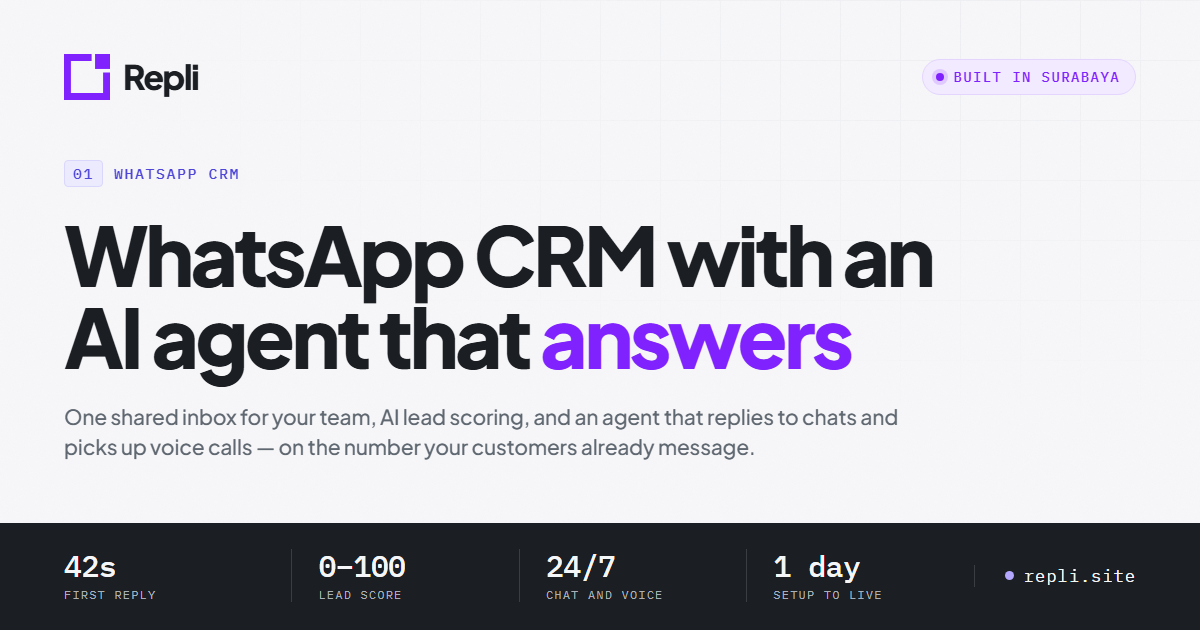
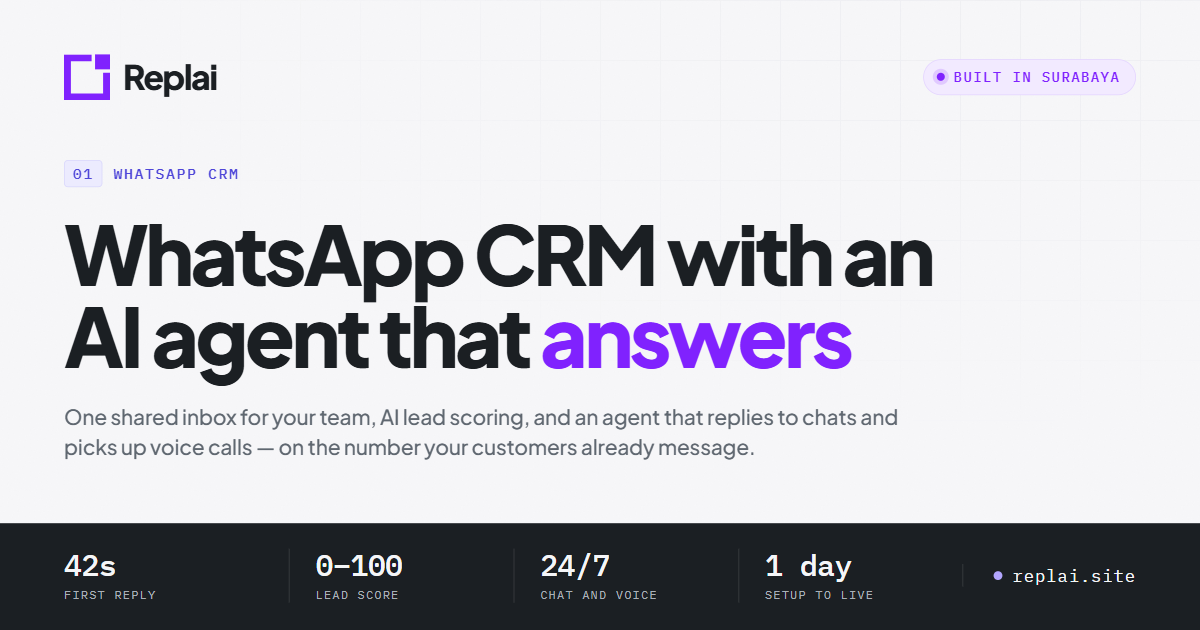
fix: rename brand to Replai and domain to replai.site
The earlier rebrand used "Repli" and repli.site by mistake. Every
occurrence in copy, metadata, schema, emails, robots/sitemap, the
favicon label, docs and the OG card now reads Replai / replai.site, and
og.png is re-rendered.

The GitHub repo and the Cloudflare Worker keep the repli-landing slug.

diff --git a/src/lib/features.ts b/src/lib/features.ts
@@ -36,7 +36,7 @@ export const features: Feature[] = [
     kicker: "Shared inbox",
     summary: "Route every chat to one owner, keep the history when staff leave.",
     lead:
-      "Deals are lost in the handover, not the pitch. Repli puts your business number into a shared inbox with real assignment, internal notes, and a conversation history that outlives whoever was holding the phone.",
+      "Deals are lost in the handover, not the pitch. Replai puts your business number into a shared inbox with real assignment, internal notes, and a conversation history that outlives whoever was holding the phone.",
     points: [
       {
         icon: "users",
@@ -46,7 +46,7 @@ export const features: Feature[] = [
       {
         icon: "doc",
         title: "Internal notes the customer never sees",
-        text: "Leave the context that matters: budget, objections, the discount someone already promised. Notes live in Repli, never in the WhatsApp thread.",
+        text: "Leave the context that matters: budget, objections, the discount someone already promised. Notes live in Replai, never in the WhatsApp thread.",
       },
       {
         icon: "bell",
@@ -73,7 +73,7 @@ export const features: Feature[] = [
       heading: "Built for the way small teams actually sell",
       body: [
         "Most WhatsApp teams start with one phone on a desk and end up with five phones, five chat histories, and no idea which customer was promised what. The usual fix — a spreadsheet and a group chat — collapses the moment volume doubles.",
-        "The shared inbox is deliberately boring: assignment, ownership, notes, search. It is the part of Repli your team touches a hundred times a day, so it loads fast, works on a mid-range Android, and keeps its keyboard shortcuts consistent.",
+        "The shared inbox is deliberately boring: assignment, ownership, notes, search. It is the part of Replai your team touches a hundred times a day, so it loads fast, works on a mid-range Android, and keeps its keyboard shortcuts consistent.",
       ],
       checks: [
         "Assignment, reassignment and unassigned queue",
@@ -124,14 +124,14 @@ export const features: Feature[] = [
       { label: "Retrain cadence", value: "Weekly", note: "on your own outcomes" },
     ],
     how: [
-      { title: "Import what you know", text: "Point Repli at your past won and lost deals, or start cold and let the first weeks calibrate it." },
+      { title: "Import what you know", text: "Point Replai at your past won and lost deals, or start cold and let the first weeks calibrate it." },
       { title: "Set your thresholds", text: "Define what hot, warm and cold mean for your business. Two numbers, changeable any time." },
       { title: "Let it sort the queue", text: "The inbox re-orders itself by score, so the first chat your closer opens is the one worth opening." },
     ],
     deeper: {
       heading: "A score you can argue with",
       body: [
-        "Opaque scores get ignored. Every Repli score exposes its top contributing signals in plain language — \"asked for bulk pricing\", \"replied within 40 seconds twice\", \"mentioned a competitor by name\" — so a sales lead can sanity-check the model instead of trusting it blindly.",
+        "Opaque scores get ignored. Every Replai score exposes its top contributing signals in plain language — \"asked for bulk pricing\", \"replied within 40 seconds twice\", \"mentioned a competitor by name\" — so a sales lead can sanity-check the model instead of trusting it blindly.",
         "When an agent overrides a score, we keep both the model's answer and the human's. Those disagreements are the most valuable training data you own.",
       ],
       checks: [
@@ -183,7 +183,7 @@ export const features: Feature[] = [
       { label: "Resolved by AI", value: "62%", note: "no human, median across pilots" },
     ],
     how: [
-      { title: "Feed the knowledge base", text: "Drop in files or a website URL. Repli indexes it and shows you exactly what it learned." },
+      { title: "Feed the knowledge base", text: "Drop in files or a website URL. Replai indexes it and shows you exactly what it learned." },
       { title: "Set the rules of engagement", text: "Tone, languages, working hours, and the topics that must always reach a person." },
       { title: "Run it in shadow mode", text: "It drafts, your agents send. When you trust the drafts, flip it live — per pipeline, not all at once." },
     ],
@@ -249,7 +249,7 @@ export const features: Feature[] = [
     deeper: {
       heading: "Automation your customers do not resent",
       body: [
-        "Bad automation is obvious: the same message at the same interval to everyone, including the person who already replied. Repli kills a sequence the moment a human answers, and refuses to send twice in one day to the same contact by default.",
+        "Bad automation is obvious: the same message at the same interval to everyone, including the person who already replied. Replai kills a sequence the moment a human answers, and refuses to send twice in one day to the same contact by default.",
         "Frequency caps, quiet hours, and an opt-out that actually sticks are built in rather than bolted on. You can raise the caps — you have to do it deliberately.",
       ],
       checks: [
@@ -308,7 +308,7 @@ export const features: Feature[] = [
     deeper: {
       heading: "Reports that survive a Monday meeting",
       body: [
-        "Most CRM dashboards fail for one reason: they depend on humans logging activity. Repli derives its numbers from the message stream, so the report and the reality cannot drift apart.",
+        "Most CRM dashboards fail for one reason: they depend on humans logging activity. Replai derives its numbers from the message stream, so the report and the reality cannot drift apart.",
         "Where a number is estimated rather than measured — attributed revenue, for instance — we label it as an estimate and show the assumption behind it.",
       ],
       checks: [

diff --git a/src/lib/content.ts b/src/lib/content.ts
@@ -79,7 +79,7 @@ export const outcomes: { icon: IconName; title: string; text: string }[] = [
 
    ⚠  BRAND CONSENT REQUIRED BEFORE THIS GOES LIVE
    Every company named below is a real, well-known Indonesian brand. Listing
-   them as Repli customers — and attaching quotes and figures to them — needs
+   them as Replai customers — and attaching quotes and figures to them — needs
    written sign-off from each brand, plus their own brand kit for any logo file.
    Without that sign-off these are false endorsements and trademark use we have
    no licence for. Checklist and status: /BRAND-CONSENT.md in the repo root.
@@ -182,7 +182,7 @@ export const testimonials: Testimonial[] = [
    true before launch — if a name, photo or figure is not cleared, the entry comes
    out rather than the line being softened. */
 export const testimonialDisclosure =
-  "Every name, photograph, quote and figure here is published with the permission of the person and the company named. Figures are their own reported numbers over their first 90 days on Repli.";
+  "Every name, photograph, quote and figure here is published with the permission of the person and the company named. Figures are their own reported numbers over their first 90 days on Replai.";
 
 export type CustomerBrand = {
   name: string;
@@ -234,7 +234,7 @@ export type BusinessPartner = {
 
 /** ⚠  Same consent problem as the customer brands, plus one specific to Meta:
     "Meta Business Partner" is a badge programme with its own rules, and the
-    badge asset is not the corporate Meta logo. Until Repli is an approved
+    badge asset is not the corporate Meta logo. Until Replai is an approved
     partner with the badge file in hand, this row is a claim we cannot make.
     See BRAND-CONSENT.md. */
 export const businessPartners: BusinessPartner[] = [
@@ -276,7 +276,7 @@ export const faqGroups: FaqGroup[] = [
     items: [
       {
         q: "Why can't I just sign up with a credit card?",
-        a: "Because connecting a WhatsApp number wrong is painful to undo. Every Repli account starts with a 30-minute call where we verify your number, set up your pipelines, and configure your first automations with you. It costs you half an hour and saves a week of confusion.",
+        a: "Because connecting a WhatsApp number wrong is painful to undo. Every Replai account starts with a 30-minute call where we verify your number, set up your pipelines, and configure your first automations with you. It costs you half an hour and saves a week of confusion.",
       },
       {
         q: "How long does setup take?",
@@ -288,7 +288,7 @@ export const faqGroups: FaqGroup[] = [
       },
       {
         q: "Can I keep using WhatsApp on my phone?",
-        a: "Yes. Your team can work from the Repli web app, and the number continues to behave like a normal business number to your customers. What changes is that the history, assignment and notes live somewhere durable.",
+        a: "Yes. Your team can work from the Replai web app, and the number continues to behave like a normal business number to your customers. What changes is that the history, assignment and notes live somewhere durable.",
       },
     ],
   },

diff --git a/src/lib/platform.ts b/src/lib/platform.ts
@@ -123,7 +123,7 @@ export const securityGroups: SecurityGroup[] = [
 
 export const securityHonesty = {
   heading: "What we do not claim yet",
-  body: "We are a pre-seed company and will not pretend otherwise. Repli is not SOC 2 or ISO 27001 certified today — an SOC 2 Type I readiness assessment is scheduled, and we will publish the report when we have it rather than before. If your procurement process requires a certificate we do not hold, tell us early and we will tell you honestly whether we can meet the deadline.",
+  body: "We are a pre-seed company and will not pretend otherwise. Replai is not SOC 2 or ISO 27001 certified today — an SOC 2 Type I readiness assessment is scheduled, and we will publish the report when we have it rather than before. If your procurement process requires a certificate we do not hold, tell us early and we will tell you honestly whether we can meet the deadline.",
   contact: "Security questions, DPAs and questionnaires go straight to a founder.",
 };
 
@@ -132,7 +132,7 @@ export const securityHonesty = {
    -------------------------------------------------------------------------- */
 
 export const companyStory: string[] = [
-  "Repli started because of a spreadsheet. A friend running a printing business in Bandung was tracking sixty active quotes in one sheet, cross-referencing them against four phones, and losing roughly one deal a week to a message nobody answered.",
+  "Replai started because of a spreadsheet. A friend running a printing business in Bandung was tracking sixty active quotes in one sheet, cross-referencing them against four phones, and losing roughly one deal a week to a message nobody answered.",
   "Every CRM we looked at for them assumed the deal starts with an email and a form. Theirs started — and finished — inside WhatsApp. The tools that did handle WhatsApp treated it as a broadcast channel for marketing blasts, which is close to the opposite of what a sales team needs.",
   "So we built the thing that was missing: a CRM where the WhatsApp conversation is the record, not an attachment to it. Then we put an AI agent inside it, because a five-person team cannot answer messages at 11pm and should not have to.",
 ];
@@ -141,7 +141,7 @@ export const principles: { icon: IconName; title: string; text: string }[] = [
   {
     icon: "phone",
     title: "Sell on a call, not through a funnel",
-    text: "Every account starts with a conversation, and we will tell you when Repli is the wrong fit. It costs us signups and saves everyone a bad quarter.",
+    text: "Every account starts with a conversation, and we will tell you when Replai is the wrong fit. It costs us signups and saves everyone a bad quarter.",
   },
   {
     icon: "eye",

diff --git a/src/lib/site.ts b/src/lib/site.ts
@@ -8,23 +8,23 @@ import { industries } from "./solutions";
 import { teams, useCases } from "./audiences";
 
 export const site = {
-  name: "Repli",
+  name: "Replai",
   /* The contracting entity. Used in the footer, the legal pages and the
-     Organization node — Repli is the product, this is who signs. */
+     Organization node — Replai is the product, this is who signs. */
   legalName: "PT Nusa Inti Telekomunikasi",
-  url: "https://repli.site",
+  url: "https://replai.site",
   tagline: "The WhatsApp CRM with an AI agent that answers",
   description:
-    "Repli turns WhatsApp into a real sales system: one shared inbox for your team, AI lead scoring, no-code follow-up automation, and an AI agent that replies to chats and answers voice calls.",
+    "Replai turns WhatsApp into a real sales system: one shared inbox for your team, AI lead scoring, no-code follow-up automation, and an AI agent that replies to chats and answers voice calls.",
   founded: 2025,
   stage: "Pre-seed",
 } as const;
 
 export const contact = {
-  salesEmail: "sales@repli.site",
-  supportEmail: "support@repli.site",
-  pressEmail: "press@repli.site",
-  privacyEmail: "privacy@repli.site",
+  salesEmail: "sales@replai.site",
+  supportEmail: "support@replai.site",
+  pressEmail: "press@replai.site",
+  privacyEmail: "privacy@replai.site",
   /* Registered office, split one line per line of the printed address. The
      address the company gave us, in English: street and area names stay as
      written, administrative terms are translated. `officeShort` is the one-line
@@ -181,7 +181,7 @@ export const nav: NavItem[] = [
         {
           heading: "Company",
           links: [
-            { label: "About Repli", href: "/about", summary: "Why we build for WhatsApp-first teams", icon: "users" },
+            { label: "About Replai", href: "/about", summary: "Why we build for WhatsApp-first teams", icon: "users" },
             { label: "Contact us", href: "/contact", summary: "Talk to sales, or ask for pricing", icon: "mail" },
           ],
         },
@@ -249,5 +249,5 @@ export const footerGroups: { heading: string; links: { label: string; href: stri
 export const cta = {
   primary: { label: "Contact us", href: "/contact" },
   secondary: { label: "See the product tour", href: "/product" },
-  note: "Repli is invite-only and quoted per team, so there is no signup form and no public price list. Both start with the same call.",
+  note: "Replai is invite-only and quoted per team, so there is no signup form and no public price list. Both start with the same call.",
 } as const;

diff --git a/scripts/og-card.html b/scripts/og-card.html
@@ -12,7 +12,7 @@
 <html lang="en">
   <head>
     <meta charset="utf-8" />
-    <title>Repli — OG card source</title>
+    <title>Replai — OG card source</title>
     <link rel="preconnect" href="https://fonts.googleapis.com" />
     <link rel="preconnect" href="https://fonts.gstatic.com" crossorigin />
     <link
@@ -266,7 +266,7 @@
               <rect x="27" width="13" height="13" />
             </g>
           </svg>
-          <b>Repli</b>
+          <b>Replai</b>
         </div>
 
         <p class="pill"><span class="dot"></span>Built in Surabaya</p>
@@ -286,7 +286,7 @@
         <div class="cell"><b>0&ndash;100</b><i>Lead score</i></div>
         <div class="cell"><b>24/7</b><i>Chat and voice</i></div>
         <div class="cell"><b>1 day</b><i>Setup to live</i></div>
-        <p class="domain"><span></span>repli.site</p>
+        <p class="domain"><span></span>replai.site</p>
       </footer>
     </div>
   </body>

diff --git a/src/lib/solutions.ts b/src/lib/solutions.ts
@@ -322,7 +322,7 @@ export const industries: Industry[] = [
       "Renewals that lapse because nobody was reminded",
     ],
     plays: [
-      { title: "Every conversation on a company number", text: "Agents work inside Repli, so the transcript, the attachments and the assignment history survive the agent leaving." },
+      { title: "Every conversation on a company number", text: "Agents work inside Replai, so the transcript, the attachments and the assignment history survive the agent leaving." },
       { title: "Document intake with a checklist", text: "KTP, payslip, existing policy — requested, tracked and chased once a day until the set is complete, then locked to the record." },
       { title: "Renewal and premium reminders", text: "Fire on the policy date inside quiet hours and frequency caps, and stop the moment payment clears." },
     ],

diff --git a/src/styles/tokens.css b/src/styles/tokens.css
@@ -1,5 +1,5 @@
 /* ==========================================================================
-   Repli design tokens — "Field Manual"
+   Replai design tokens — "Field Manual"
    Cool white stock, graphite ink, violet action, indigo second voice.
    The anchors are sampled straight from the brand artwork: the mark is
    #8022FE, the banner gradient runs #7741ED → #6560F0 → #7C6BED, and the

diff --git a/src/lib/audiences.ts b/src/lib/audiences.ts
@@ -227,7 +227,7 @@ export type Size = {
   name: string;
   who: string;
   fit: string[];
-  /** The plan band this size lands in. No figure: Repli is invite-only and
+  /** The plan band this size lands in. No figure: Replai is invite-only and
       quoted per team, so every one of these leads to a conversation. */
   plan: { label: string; href: string };
 };

diff --git a/src/lib/schema.ts b/src/lib/schema.ts
@@ -52,7 +52,7 @@ export const websiteNode: Node = {
 };
 
 /**
- * The product itself. No `offers` node: Repli is quoted per team and there is
+ * The product itself. No `offers` node: Replai is quoted per team and there is
  * no public price list, and a price-free Offer is worse than none at all.
  */
 export const softwareNode: Node = {

diff --git a/README.md b/README.md
@@ -1,6 +1,6 @@
-# Repli — marketing site
+# Replai — marketing site
 
-Static marketing site for Repli, a WhatsApp CRM with an AI agent. Astro 5, no
+Static marketing site for Replai, a WhatsApp CRM with an AI agent. Astro 5, no
 UI framework, no client-side router. 30 routes, zero external JavaScript bundles —
 the only scripts are small inline islands (header drawer, reveal-on-scroll, the
 login form).
@@ -9,7 +9,7 @@ Design direction, palette and type decisions are recorded in
 [`LANDING-PAGE-BRIEF.md`](LANDING-PAGE-BRIEF.md).
 
 > [!WARNING]
-> **Do not point `repli.site` at this build yet.** The site names real
+> **Do not point `replai.site` at this build yet.** The site names real
 > Indonesian companies as customers and shows named people with their
 > photographs. None of it is cleared. Read
 > [`BRAND-CONSENT.md`](BRAND-CONSENT.md) first — it lists exactly what has to be
@@ -52,7 +52,7 @@ needs a secret, so there is nothing to configure in a host's env panel.
 
 ## Before a real domain
 
-`astro.config.mjs` sets `site: 'https://repli.site'`. That value builds the
+`astro.config.mjs` sets `site: 'https://replai.site'`. That value builds the
 canonical tags and the sitemap. **If you deploy to a different hostname, change
 it**, or every page will advertise a canonical URL that is not where it lives.
 Preview deployments are fine to leave alone — they are `noindex` by convention on
@@ -74,7 +74,7 @@ Vercel deploys a static Astro site with zero configuration and no adapter.
    - Install Command: `npm ci`
 3. Leave Environment Variables empty. This site has none.
 4. **Deploy.** First build is roughly a minute.
-5. **Project → Settings → Domains** to add `repli.site`. Vercel prints the DNS
+5. **Project → Settings → Domains** to add `replai.site`. Vercel prints the DNS
    records to create at your registrar (an `A` record for the apex, `CNAME` for
    `www`).
 
@@ -114,7 +114,7 @@ from a Git repo.
    lag behind: `NODE_VERSION` = `22`. (`.nvmrc` in the repo says the same thing;
    the variable is the one that is unambiguous.)
 4. **Save and Deploy.**
-5. **Custom domains** tab → add `repli.site`. If the domain's DNS is already on
+5. **Custom domains** tab → add `replai.site`. If the domain's DNS is already on
    Cloudflare, the records are created for you.
 
 Pages serves `404.html` for unmatched paths automatically, and resolves

diff --git a/LANDING-PAGE-BRIEF.md b/LANDING-PAGE-BRIEF.md
@@ -1,18 +1,18 @@
-# Landing Page Brief — Repli
+# Landing Page Brief — Replai
 
 ## Tentang Produk
 
-Repli adalah B2B SaaS WhatsApp CRM yang menargetkan SMB (small-medium business) di Indonesia dan ASEAN. Produk ini menggabungkan AI lead scoring, sinkronisasi multi-user WhatsApp, otomasi workflow no-code, dan analitik penjualan — semua dalam satu platform berbasis WhatsApp Business API.
+Replai adalah B2B SaaS WhatsApp CRM yang menargetkan SMB (small-medium business) di Indonesia dan ASEAN. Produk ini menggabungkan AI lead scoring, sinkronisasi multi-user WhatsApp, otomasi workflow no-code, dan analitik penjualan — semua dalam satu platform berbasis WhatsApp Business API.
 
 **Tahap:** Pre-seed
 **Target pasar:** SMB Indonesia & ASEAN (owner bisnis, tim sales kecil-menengah)
-**Domain:** repli.site
+**Domain:** replai.site
 
 ---
 
 ## Tujuan Landing Page
 
-1. Menjelaskan value proposition Repli secara singkat dan jelas dalam 5 detik pertama
+1. Menjelaskan value proposition Replai secara singkat dan jelas dalam 5 detik pertama
 2. Mendorong konversi ke sign-up / demo request / WhatsApp trial
 3. Membangun kepercayaan (trust) untuk produk pre-seed yang belum punya brand awareness besar
 4. Berfungsi optimal di mobile (target audiens banyak mengakses lewat HP)
@@ -24,7 +24,7 @@ Repli adalah B2B SaaS WhatsApp CRM yang menargetkan SMB (small-medium business) 
 ### 1. Hero Section
 
 - **Headline:** Fokus pada outcome bisnis, bukan fitur teknis. Contoh arah: "Ubah Chat WhatsApp Jadi Mesin Penjualan Otomatis"
-- **Subheadline:** Jelaskan singkat bahwa Repli = CRM + AI + WhatsApp dalam satu platform
+- **Subheadline:** Jelaskan singkat bahwa Replai = CRM + AI + WhatsApp dalam satu platform
 - **CTA utama:** "Coba Gratis" / "Request Demo" (tombol besar, warna kontras)
 - **CTA sekunder:** "Lihat Cara Kerja" (scroll ke demo/video)
 - **Visual:** Mockup interface WhatsApp + dashboard CRM berdampingan, atau video singkat (15-30 detik)

diff --git a/BRAND-CONSENT.md b/BRAND-CONSENT.md
@@ -1,9 +1,9 @@
 # Brand consent — required before launch
 
-**Status: NOT CLEARED. Do not publish this site to `repli.site` until every row
+**Status: NOT CLEARED. Do not publish this site to `replai.site` until every row
 in the table below says `yes`.**
 
-This site names real, well-known Indonesian companies as Repli customers, and
+This site names real, well-known Indonesian companies as Replai customers, and
 attaches quotes, named individuals with their photographs, and performance
 figures to them. As shipped, that content is placeholder: it was written to the
 requested design, not from signed reference agreements. Publishing it as-is means
@@ -106,7 +106,7 @@ employer's — see point 3 above.
 | Meta | no | no | |
 
 The footer says "Business Partners" and shows the Meta corporate logo. Two
-separate problems: Repli is not a listed Meta Business Partner, and even once
+separate problems: Replai is not a listed Meta Business Partner, and even once
 it is, the programme requires **their** partner badge, not the corporate mark —
 using the corporate logo to imply a partnership is the trademark issue above in a
 different coat. Until both cells say `yes`, drop `businessPartners` to an empty
